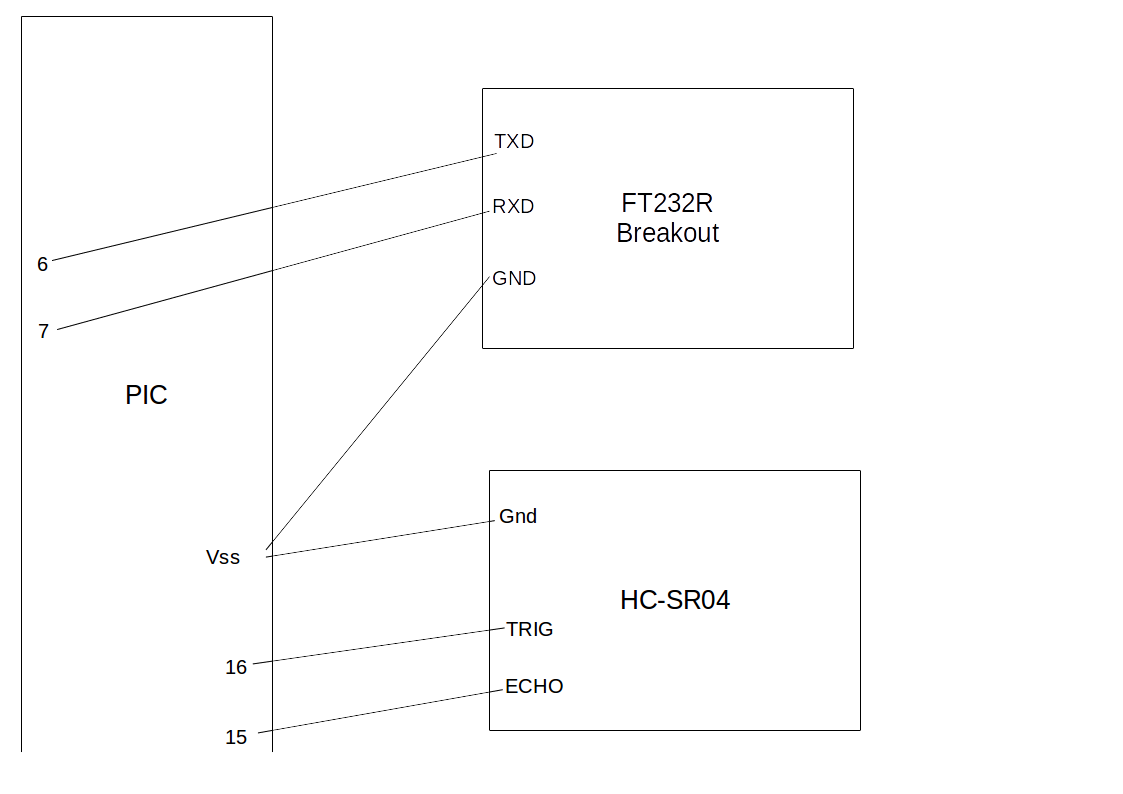
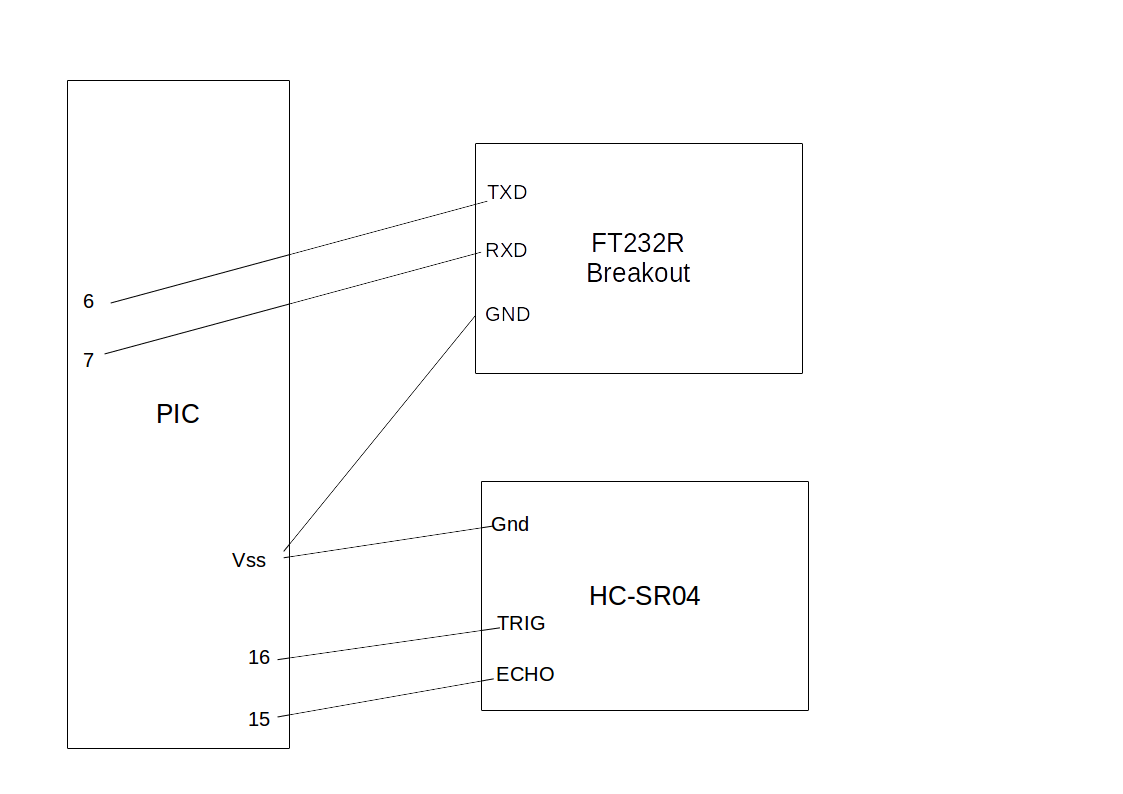
more image tests

diff --git a/css/main.css b/css/main.css
@@ -45,3 +45,6 @@ a:hover {
   margin: 3em auto 2em auto;
   line-height: 1.5em;
 }
+img {
+    width: 62em;
+}

diff --git a/_posts/2016-05-19-Getting_Started_with_the_HC-SR04_distance_sensor.md b/_posts/2016-05-19-Getting_Started_with_the_HC-SR04_distance_sensor.md
@@ -16,7 +16,7 @@ Here's the [link](https://github.com/bsmitty5000/getting_started_with_hc-sr04) f
 
 ## hardware connections
 I apologize about the drawing. Gets the point across though.
-![connections]({{site.url}}assets/intro_hcsr04_hardware.png)
+![connections]({{site.url}}assets/test.JPG)
 
 ## pic setup
 
